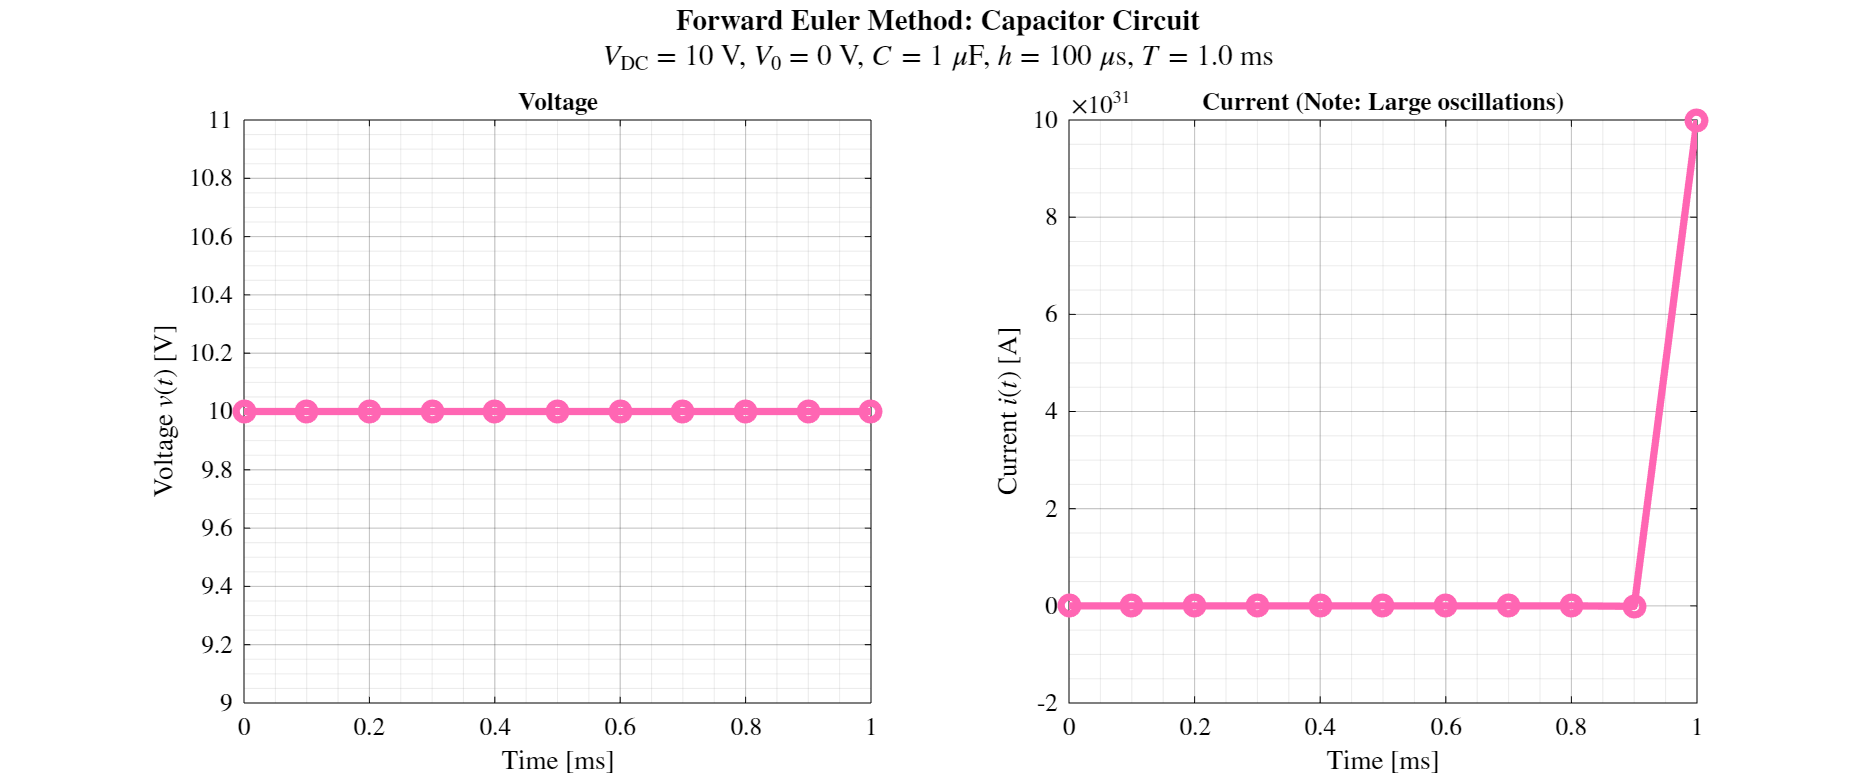
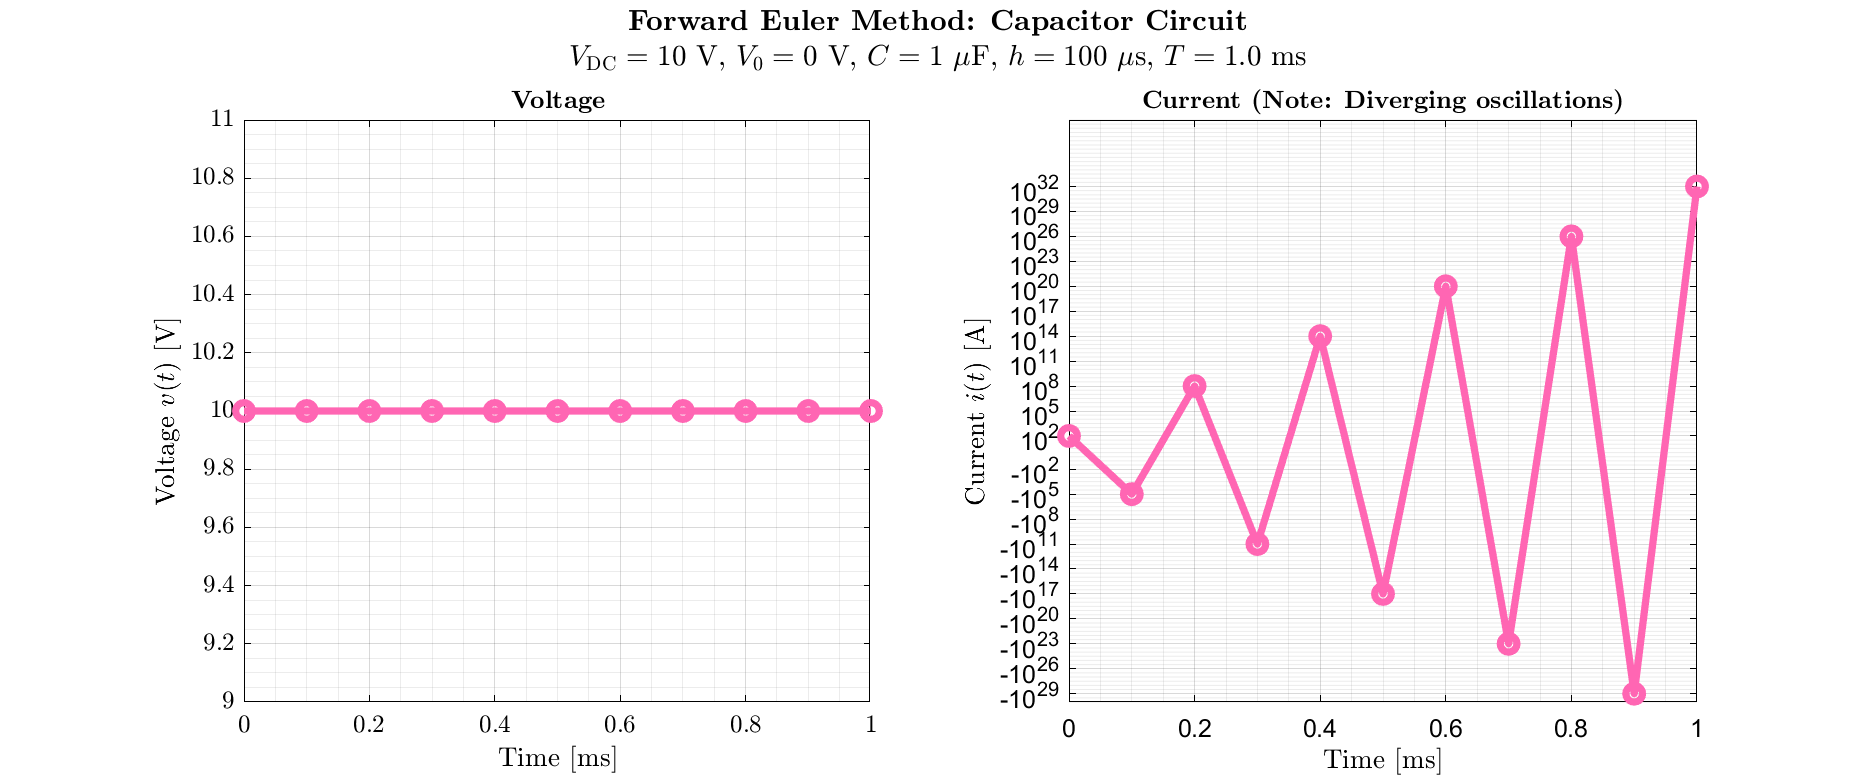
forward euler derivatoin better now

diff --git a/ee582/src_Hw02/hw02_qA1.m b/ee582/src_Hw02/hw02_qA1.m
@@ -148,7 +148,7 @@ v_FE(1) = V_0;  % V(-h) = V_0
 i_FE(1) = 0;    % i(-h) = 0
 
 % Forward Euler companion model using your corrected equations:
-% v(t) = e_h(t)                                    (Eq 5)
+% v(t) = V_DC for t > 0 (KVL constraint)
 % i(t) = (v(t) - e_h(t)) / R_epsilon               (Eq 6)
 % where:
 % e_h(t) = v(t-h) + R_c * i(t-h)
@@ -163,7 +163,7 @@ for n = 2:N+1  % n=2 corresponds to t=0, n=3 to t=h, etc.
     
     % Step 2: Calculate e_h and i_h using PREVIOUS row's v(t-h) and i(t-h)
     e_h_FE(n) = v_FE(n-1) + R_c * i_FE(n-1);
-    i_h_FE(n) = e_h_FE(n) / R_c;
+    i_h_FE(n) = e_h_FE(n) / R_epsilon;
     
     % Step 3: Calculate current i(t) using current row's v(t), e_h, i_h
     % From FE equation: i(t) = (v(t) - e_h(t)) / R_epsilon
@@ -278,16 +278,29 @@ ax1.MinorGridLineStyle = '-';
 ax1.MinorGridAlpha = 0.15;
 ax1.MinorGridColor = [0.5 0.5 0.5];
 
-% Current (scaled y-axis for large values)
+% Current (symmetric log scale for diverging oscillations)
 subplot(1,2,2);
 ax2 = gca;
-plot(t*1e3, i_FE, 'o-', 'Color', [1 0.4 0.7], 'LineWidth', 3.5);
+
+% Create symmetric log transformation: sign(x) * log10(abs(x)) but plot on linear scale
+% with custom tick labels showing actual values
+i_FE_symlog = sign(i_FE) .* log10(abs(i_FE) + 1e-10);
+
+plot(t*1e3, i_FE_symlog, 'o-', 'Color', [1 0.4 0.7], 'LineWidth', 3.5);
 grid on;
 xlabel('Time [ms]', 'Interpreter', 'latex');
 ylabel('Current $i(t)$ [A]', 'Interpreter', 'latex');
-title('\textbf{Current (Note: Large oscillations)}', 'Interpreter', 'latex', 'FontSize', 12, 'Color', 'k');
+title('\textbf{Current (Note: Diverging oscillations)}', 'Interpreter', 'latex', 'FontSize', 12, 'Color', 'k');
 xlim([0 T_horizon_s*1e3]);
-set(ax2, 'XColor', 'k', 'YColor', 'k', 'Color', 'w', 'TickLabelInterpreter', 'latex');
+
+% Set custom y-ticks based on actual data points
+% The data oscillates with powers: 2, 5, 8, 11, 14, 17, 20, 23, 26, 29, 32 (positive and negative)
+% Each step multiplies by ~10^3, so we need higher powers
+yticks([-32, -29, -26, -23, -20, -17, -14, -11, -8, -5, -2, 2, 5, 8, 11, 14, 17, 20, 23, 26, 29, 32]);
+yticklabels({'-10^{32}', '-10^{29}', '-10^{26}', '-10^{23}', '-10^{20}', '-10^{17}', '-10^{14}', '-10^{11}', '-10^{8}', '-10^{5}', '-10^{2}', ...
+             '10^{2}', '10^{5}', '10^{8}', '10^{11}', '10^{14}', '10^{17}', '10^{20}', '10^{23}', '10^{26}', '10^{29}', '10^{32}'});
+
+set(ax2, 'XColor', 'k', 'YColor', 'k', 'Color', 'w', 'TickLabelInterpreter', 'tex');
 % Explicit minor grid settings
 ax2.XMinorGrid = 'on';
 ax2.YMinorGrid = 'on';
